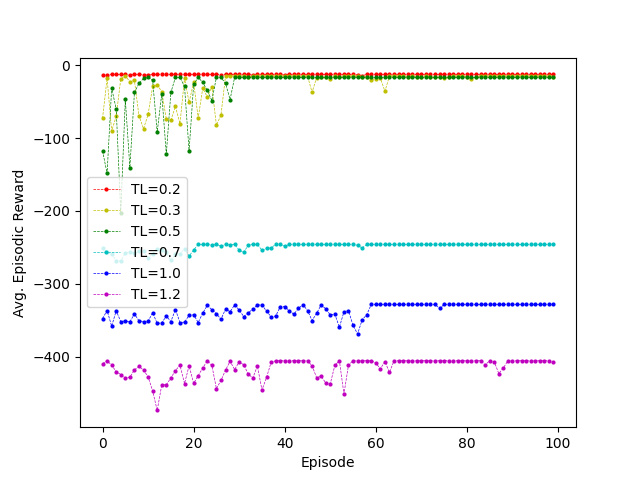
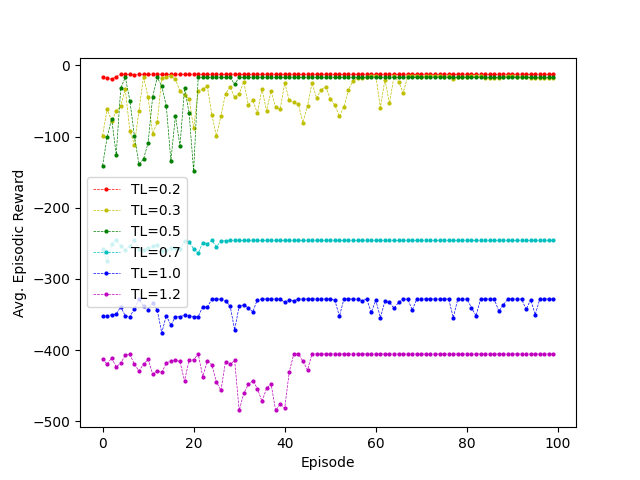
simulation7.0

diff --git a/simulation7.0/env_try7.py b/simulation7.0/env_try7.py
@@ -139,7 +139,6 @@ class Env:
         self.flows = [[0, 4, 10], [0, 4, 10], [0, 4, 10], [0, 4, 10], [2, 0, 10]]
         # np.random.seed(0)
         # self.flows = self.get_flows(self.total_flows)  # randomly generated flows
-        # print("flows before sorting: ", self.flows)
         self.flows.sort(key=lambda x: (x[0], x[1], x[2]))
 
     def get_flows(self, number):
@@ -178,7 +177,7 @@ class Env:
 
     def observation_space(self):
         state_dim = self.total_switches ** 2
-        action_dim = self.total_switches ** 2
+        action_dim = self.total_switches ** 2 * 2
         return state_dim, action_dim
 
     def get_flow_tl(self, traffic_load):
@@ -198,7 +197,7 @@ class Env:
 
     # get optimal path for different groups
     # weights here is action
-    def get_opt_path_advance(self, weights, flow_traffic):
+    def get_opt_path_advance(self, action, flow_traffic):
         opt_path = []
         flows_group = [[self.flows[0][0], self.flows[0][1], [flow_traffic[0]]]]
         index = 0
@@ -209,23 +208,26 @@ class Env:
                 flows_group.append([self.flows[i][0], self.flows[i][1], [flow_traffic[i]]])
                 index += 1
         for j in range(0, len(flows_group)):
-            if len(flows_group[j][2]) == 1:
-                opt_path.append(self.graph.dijkstra(flows_group[j][0], flows_group[j][1], weights))
+            if len(flows_group[j][2]) == 1:  # only one element in this group
+                opt_path.append(self.graph.dijkstra(flows_group[j][0], flows_group[j][1], action[:5]))
             else:
                 all_paths_onepair = self.graph.print_all_paths(flows_group[j][0], flows_group[j][1])
                 for k in range(0, len(all_paths_onepair)):
                     distance = 0
+                    bandwidth = 1
                     for l in range(0, len(all_paths_onepair[k])-1):
-                        distance += weights[all_paths_onepair[k][l]][all_paths_onepair[k][l+1]]
-                    all_paths_onepair[k].append(distance)
+                        distance += action[all_paths_onepair[k][l]][all_paths_onepair[k][l+1]]
+                        bandwidth = min(bandwidth, action[all_paths_onepair[k][l] + self.total_switches][all_paths_onepair[k][l+1]])
+                    all_paths_onepair[k].append([distance, bandwidth])
                 # all possible paths are sorted according to the aggregated weights
-                all_paths_onepair.sort(key=lambda x: (x[-1]))
+                all_paths_onepair.sort(key=lambda x: (x[-1][0]))
                 #print("all_paths_onepair_sort:", all_paths_onepair)
                 path_id = 0
                 start = 0
                 opt_path.append(all_paths_onepair[path_id][:-1])  # [:-1]: exclude the last item distance
                 for end in range(1, len(flows_group[j][2])):
-                    if sum(flows_group[j][2][start:end+1]) <= self.max_bandwidth:
+                    if sum(flows_group[j][2][start:end+1]) <= \
+                            self.max_bandwidth * all_paths_onepair[path_id][-1][1] * self.total_flows:
                         opt_path.append(all_paths_onepair[path_id][:-1])
                     else:
                         path_id = (path_id + 1) % len(all_paths_onepair)
@@ -257,8 +259,8 @@ class Env:
         return prev_state
 
     def step(self, action, flow_traffic, queue_length_select, a_delay, a_pkt_loss):
-        action_w = np.array(action).reshape((self.total_switches, self.total_switches))
-        optimal_path = self.get_opt_path_advance(action_w, flow_traffic)  # modify!!! previous: get_opt_path
+        action_w = np.array(action).reshape((self.total_switches * 2, self.total_switches))
+        optimal_path = self.get_opt_path_advance(action_w, flow_traffic)  # modify!!!
         state = self.get_state(optimal_path, flow_traffic)
         reward, r_delay, avg_delay, r_pkt_loss = self.get_reward(state, optimal_path, queue_length_select, a_delay, a_pkt_loss)
         return state, reward, r_delay, avg_delay, r_pkt_loss
@@ -319,7 +321,7 @@ class Env:
                 # take non-zero p into account
                 if p != 0:
                     cost.append(p ** 2)
-        r_pkt_loss = math.sqrt(sum(cost) / (self.total_edges / 2))  # all links are bidirectional
+        r_pkt_loss = math.sqrt(sum(cost) / (self.total_edges / 2))
         #print("r_pkt_loss: ", r_pkt_loss)
         return r_pkt_loss
 

diff --git a/simulation7.0/ddpy_try7.py b/simulation7.0/ddpy_try7.py
@@ -6,7 +6,7 @@ from scipy.stats import norm
 import tensorflow as tf
 from tensorflow.keras import layers
 
-from env_try6 import Env
+from env_try7 import Env
 
 
 flows = 5
@@ -173,7 +173,7 @@ class CriticNetwork:
 
 
 def policy(state, noise, weights_original, indicator, exploration_rate=1.0):
-    weights = np.array(weights_original).reshape(1, nodes ** 2)
+    weights = np.array(weights_original+weights_original).reshape(1, nodes ** 2 * 2)
     sampled_actions = actor_model(state)
     noise = noise()
     noise_dec = exploration_rate * noise
@@ -230,8 +230,8 @@ tau = 0.005
 a_delay = 1.0
 a_pkt_loss = 1000
 
-total_episodes = 5
-total_steps = 1
+total_episodes = 500
+total_steps = 100
 
 # set up different traffic load level
 traffic_load = [0.2, 0.3, 0.5, 0.7, 1.0, 1.2]
@@ -346,7 +346,7 @@ for ex in range(0, experiment_num):
                 # update exploration rate
                 exploration_rate -= 1.0 / (total_episodes * total_steps)
 
-                # shape: (nodes ** 2, )
+                # shape: (nodes ** 2 * 2, )
                 action = policy(tf_prev_state, ou_noise, weights_original, 1, exploration_rate)  # 1 for training
 
                 # receive state and reward from environment
@@ -419,7 +419,7 @@ for ex in range(0, experiment_num):
         # test
         tf_prev_state_test = tf.convert_to_tensor(prev_state.reshape(1, nodes ** 2))
         action_test = policy(tf_prev_state_test, ou_noise, weights_original, 0)  # 0 for test
-        opt_path_list[ft].append(env.get_opt_path_advance(np.array(action_test).reshape((nodes, nodes)), flow_traffic))
+        opt_path_list[ft].append(env.get_opt_path_advance(np.array(action_test).reshape((nodes * 2, nodes)), flow_traffic))
 
     # store result of each experiment
     ep_converged_list.append(ep_converged)
